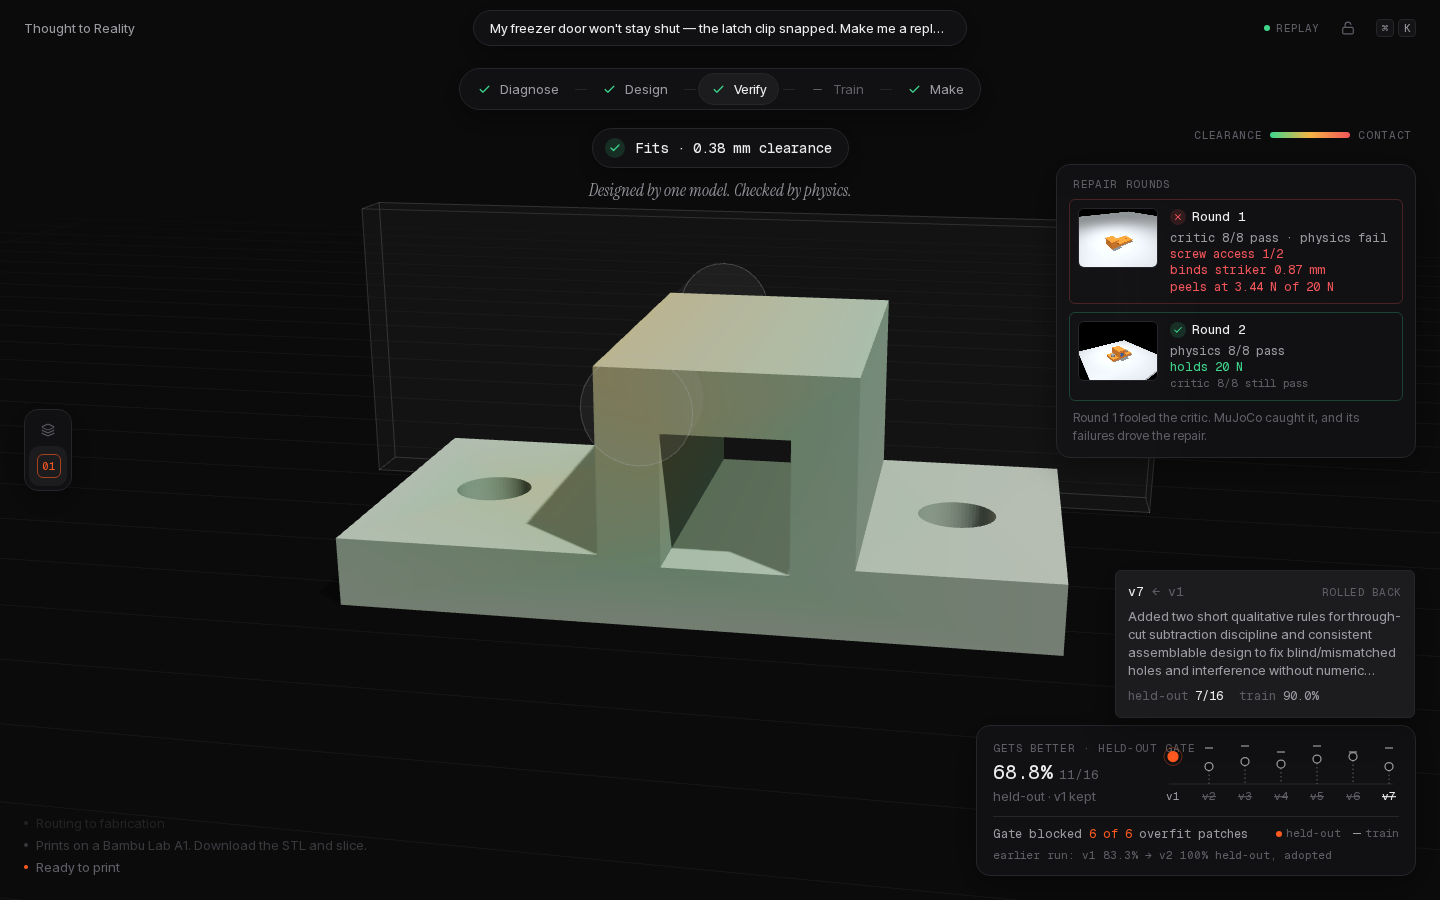
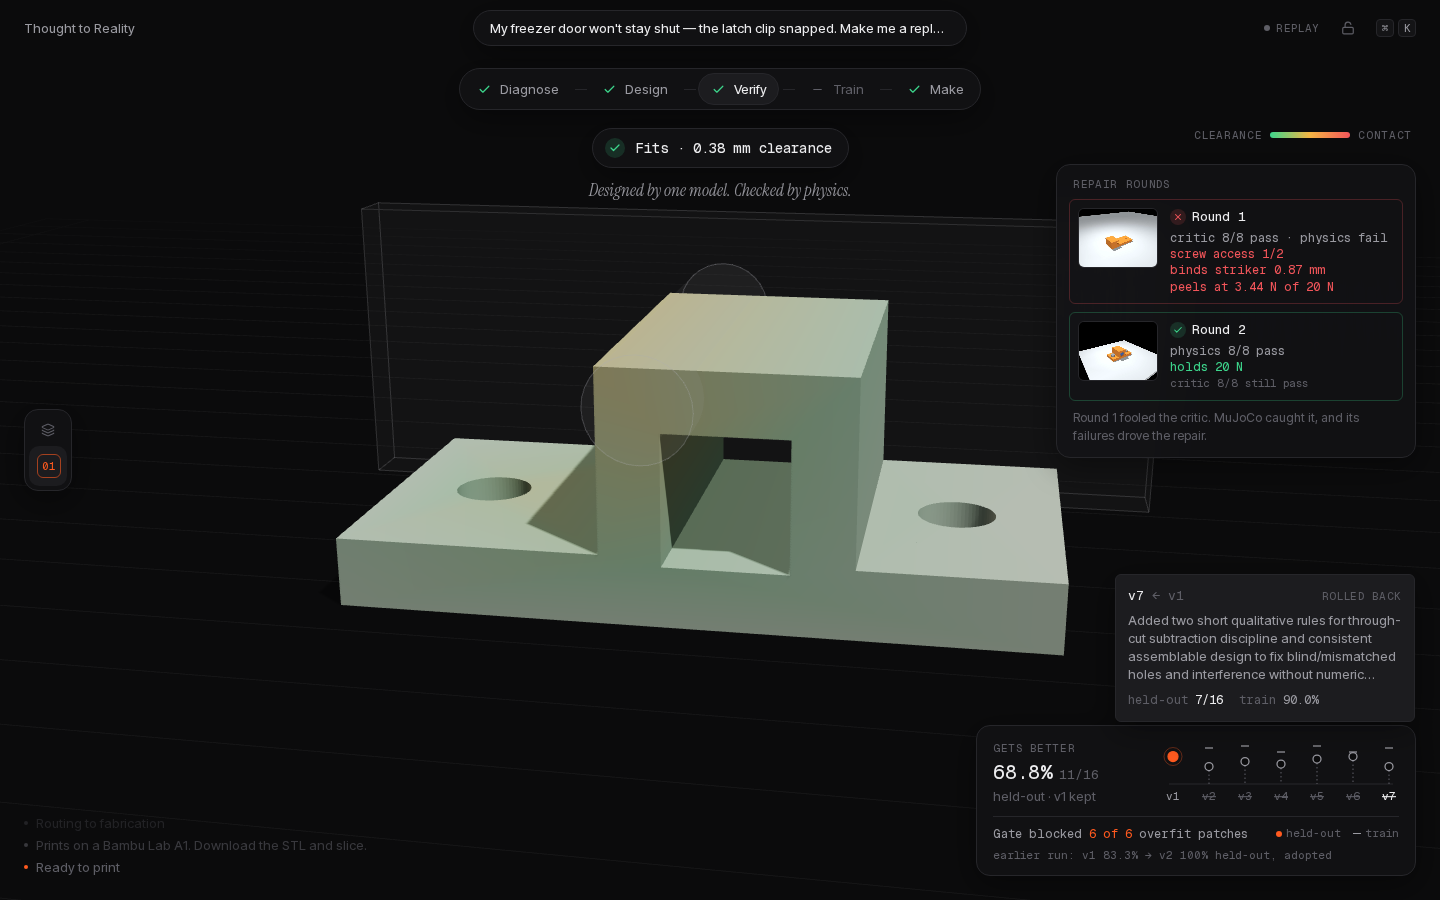
[hark] demo: re-shoot docs/screens 01–08 against a no-env static-replay build (fit rounds, gets better, order confirm)

Changed region(s): [[0.7812, 0.6533, 0.9688, 0.7778]]

diff --git a/docs/screens/shoot.py b/docs/screens/shoot.py
@@ -11,8 +11,8 @@ shots = [
     ("01-prompt.png", "/", 2500, None),
     ("02-understanding.png", RUN + "&view=diagnose", 5000, None),
     ("03-model.png", RUN + "&view=design", 6000, None),
-    ("04-fit.png", RUN + "&view=verify", 7000, None),
-    ("05-gets-better.png", RUN + "&view=verify", 7000, "hover"),
+    ("04-fit.png", RUN + "&view=verify", 12000, None),
+    ("05-gets-better.png", RUN + "&view=verify", 12000, "hover"),
     ("06-train.png", "/runs/demo-robot-dog?instant=1&view=train", 8000, None),
     ("07-make.png", RUN + "&view=make", 6000, None),
     ("08-order.png", RUN + "&view=make", 6000, "order"),
@@ -21,7 +21,10 @@ shots = [
 with sync_playwright() as p:
     b = p.chromium.launch(args=["--use-gl=swiftshader", "--enable-webgl", "--ignore-gpu-blocklist"])
     pg = b.new_page(viewport={"width": 1440, "height": 900})
+    only = sys.argv[2:] 
     for name, url, wait, action in shots:
+        if only and name not in only:
+            continue
         pg.goto(BASE + url, wait_until="load")
         pg.wait_for_timeout(wait)
         if action == "hover":
@@ -29,7 +32,7 @@ with sync_playwright() as p:
             el.hover(force=True)
             pg.wait_for_timeout(600)
         if action == "order":
-            pg.get_by_role("button", name="Order print").first.click()
+            pg.get_by_role("button", name="Order print").first.click(timeout=20000)
             pg.wait_for_timeout(900)
         pg.screenshot(path=str(OUT / name))
         print("shot", name)
